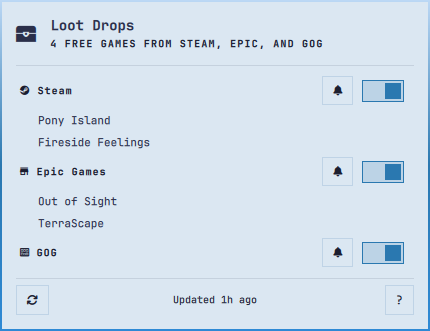
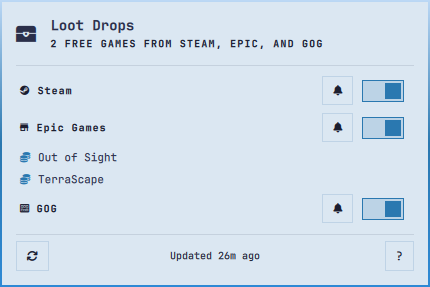
Refresh the preview and theme screenshots
Retaken on Omarchy 4.0.4-1 with the panel showing two free games and their coin markers. Cropped to the panel window border as before; the height is shorter than the previous set because the list holds two games, not four.

diff --git a/README.md b/README.md
@@ -11,7 +11,7 @@ new one appears, you get a desktop notification.
 **No accounts. No API keys. No logins.** It reads only the stores' own public
 pages, and it never writes anything outside its own state directory.
 
-<p align="center"><img alt="Loot Drops panel in the Sunlit Sands theme, listing four games free to keep grouped by store" src="preview.png" width="410"></p>
+<p align="center"><img alt="Loot Drops panel in the Sunlit Sands theme, listing two games free to keep grouped by store, each with a coin marker" src="preview.png" width="410"></p>
 
 **Preview:** Sunlit Sands. A real screenshot from Omarchy 4.0.4-1 on Hyprland,
 taken from the live desktop with the panel open. The stores and games in it were
